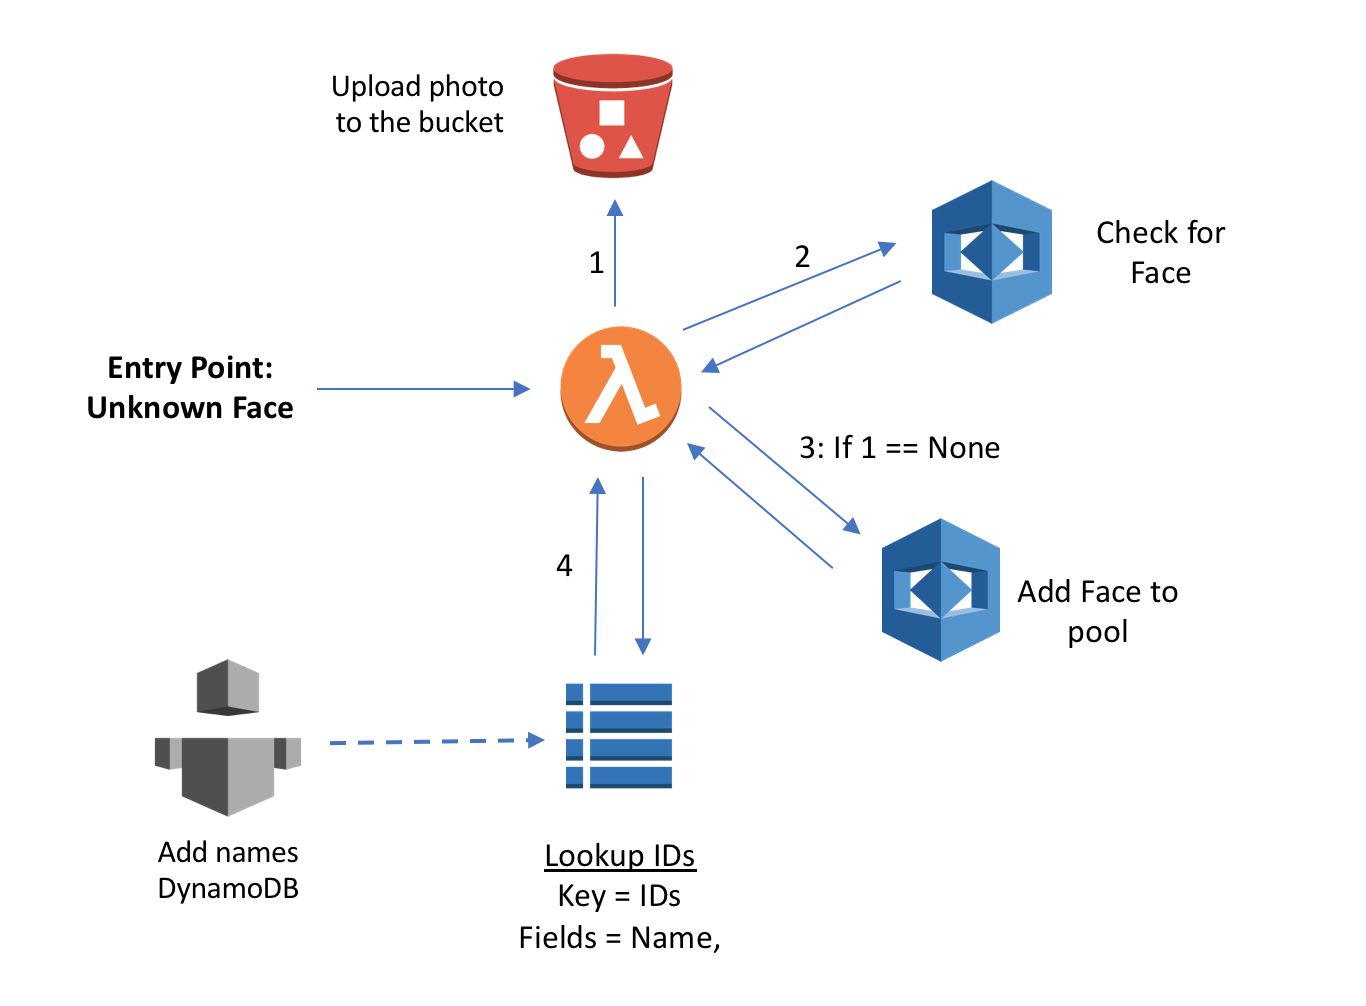
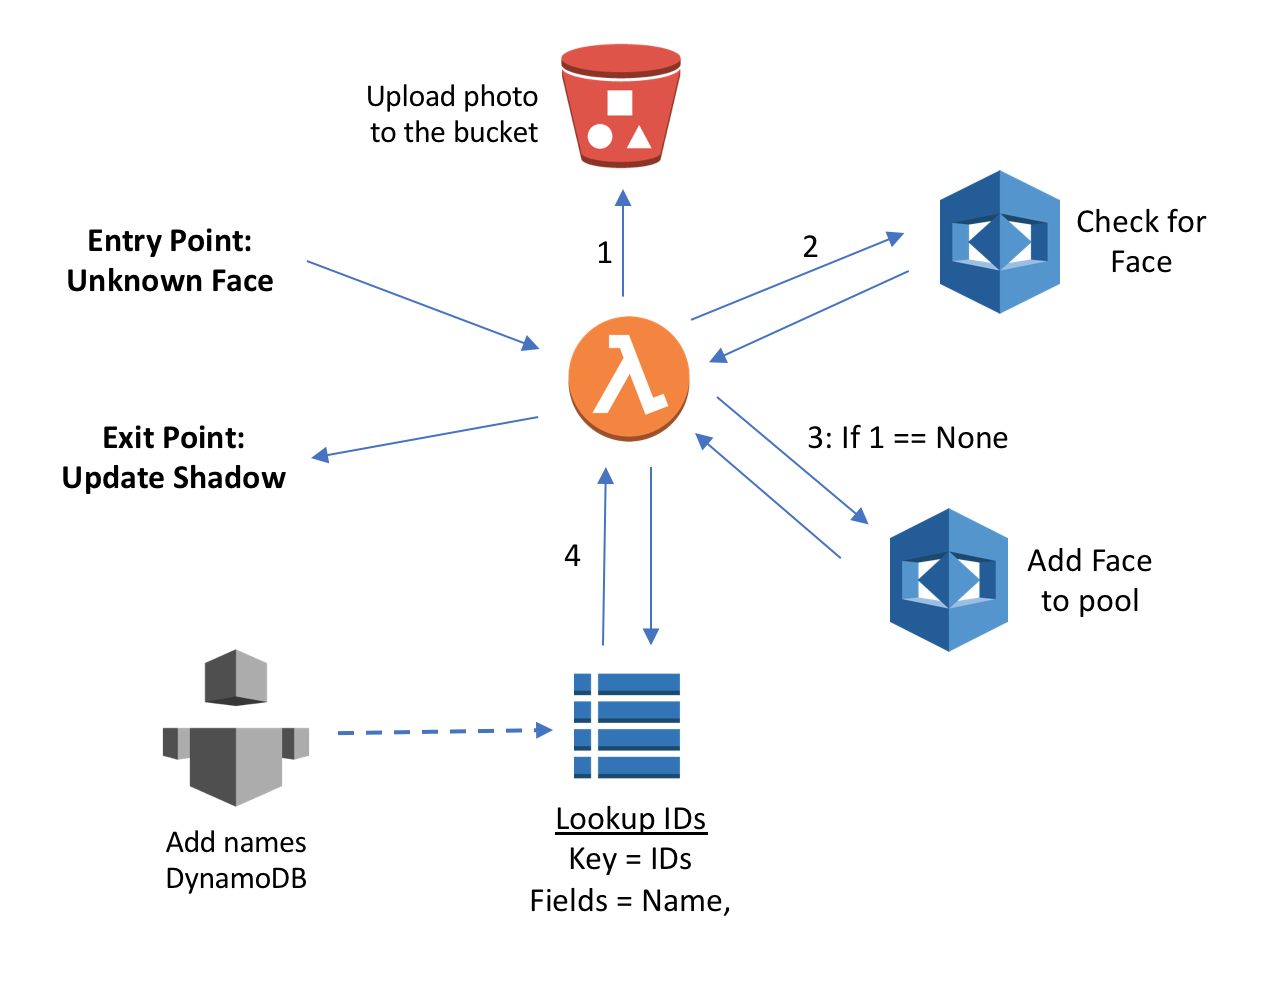
Supbscribe to shadow updates

diff --git a/2-face-detection/publish.py b/2-face-detection/publish.py
@@ -11,36 +11,35 @@ class Publisher:
 
         if platform.system() != 'Darwin':
             GGC = greengrasssdk.client('iot-data')
-            def debug(topic=self.admin, payload=""):
-                GGC.publish(topic=topic, payload=payload)
+            def debug(topic=self.admin, payload={}):
+                payload['thing'] = self.thing
+                GGC.publish(topic=topic, payload=json.dumps(payload))
             self.publish = debug
         else:
-            def debug(topic=self.admin, payload=""):
-                print(topic, payload)
+            def debug(topic=self.admin, payload={}):
+                payload['thing'] = self.thing
+                print(topic, json.dumps(payload))
             self.publish = debug
 
     def exception(self, err):
-        self.publish(topic=self.admin, payload=json.dumps({
+        self.publish(topic=self.admin, payload={
             "type":  "exception",
-            "thing": self.thing,
             "location": currentframe().f_back.f_filename,
             "line": currentframe().f_back.f_lineno,
             "payload": err
-        }))
+        })
 
     def info(self, data):
-        self.publish(topic=self.admin, payload=json.dumps({
+        self.publish(topic=self.admin, payload={
             "type":  "info",
-            "thing": self.thing,
             "payload": data
-        }))
+        })
 
     def events(self, data):
-        self.publish(topic=self.admin, payload=json.dumps({
+        self.publish(topic=self.admin, payload={
             "type":  "events",
-            "thing": self.thing,
             "count": len(data),
             "payload": data
-        }))
+        })
 
 

diff --git a/2-face-detection/lambda_function.py b/2-face-detection/lambda_function.py
@@ -2,7 +2,8 @@ import os
 import platform
 import face_recognition
 import json
-import cv2 # pylint: disable=import-error
+import cv2
+import base64
 
 from camera import VideoStream
 from file_output import FileOutput
@@ -60,9 +61,10 @@ def main_loop():
             face_encodings = face_recognition.face_encodings(rgb_frame, face_locations)
 
             names = []
+            known = True
             for (top, right, bottom, left), face_encoding in zip(face_locations, face_encodings):
                 try:
-                    name = FACES.is_known(face_encoding)
+                    name, known = FACES.is_known(face_encoding)
                 except Exception as err:
                     PUB.exception(str(err))
                     raise err
@@ -75,6 +77,13 @@ def main_loop():
                     bottom *= 4
                     left *= 4
 
+                if not known:
+                    face = frame[top:bottom, left:right]
+                    _, jpeg = cv2.imencode('.jpg', face)
+                    PUB.publish({
+                        'id': name,
+                        'face': base64.b64encode(jpeg.tobytes())# add cropped photo TODO
+                    })
                 frame = draw_box(frame, name, top, right, bottom, left)
 
             PUB.events(names)
@@ -89,4 +98,5 @@ def main_loop():
 main_loop()
 
 def lambda_handler(event, context):
+    PUB.info("Received shadow update: " + json.dumps(event))
     return

diff --git a/1-greengrass-configuration/create-greengrass-config.py b/1-greengrass-configuration/create-greengrass-config.py
@@ -217,6 +217,10 @@ def add_function(name, state):
     subscription = static_config.SUBSCRIPTION_INITIAL_VERSION 
     subscription['Subscriptions'][0]['Source'] = arn
     subscription['Subscriptions'][0]['Id'] = str(uuid.uuid1())
+
+    subscription['Subscriptions'][1]['Target'] = arn
+    subscription['Subscriptions'][1]['Subject'] = '$aws/things/' + state['name'] + '/shadow/update/accepted'
+    subscription['Subscriptions'][1]['Id'] = str(uuid.uuid1())
     
     response = greengrass.create_subscription_definition(
         InitialVersion=subscription

diff --git a/2-face-detection/face_datastore.py b/2-face-detection/face_datastore.py
@@ -24,6 +24,7 @@ class FaceDatastore:
         if best <= self.tolerance:
             i = np.where(norm == best)
             name = self.face_names[i[0][0]]
+            return name, True
         else:
             if len(self.face_encodings) >= self.max_length:
                 self.face_encodings.pop(0)
@@ -34,4 +35,4 @@ class FaceDatastore:
 
             self.face_encodings.append(face)
             self.face_names.append(name)
-        return name
+        return name, False

diff --git a/1-greengrass-configuration/static_config.py b/1-greengrass-configuration/static_config.py
@@ -76,9 +76,14 @@ ROLE_POLICY = {
 SUBSCRIPTION_INITIAL_VERSION = {
     'Subscriptions': [
         {
-            'Source': 'string',
+            'Source': 'function_arn',
             'Subject': '#',
             'Target': 'cloud'
+        },
+        {
+            'Source': 'cloud',
+            'Subject': '$aws/things/THING_NAME/shadow/update/accepted',
+            'Target': 'function_arn'
         },
     ]
 }

diff --git a/3-hybrid-face-recognition/README.md b/3-hybrid-face-recognition/README.md
@@ -12,6 +12,8 @@ Now we have a very basic face detection and recognition model running on the dev
 
 - Create another Lambda function which will be using Rekognition to resolve the name of the faces it receive, only create it in the cloud this time.
 
+- Create a DynamoDB table with a primary key id of type string.
+
 - In Amazon Rekognition create a pool of face that you need to identify.
 
 - Edit the code to crop the Faces which have not been identified yet, and send them to recognition for identification.
